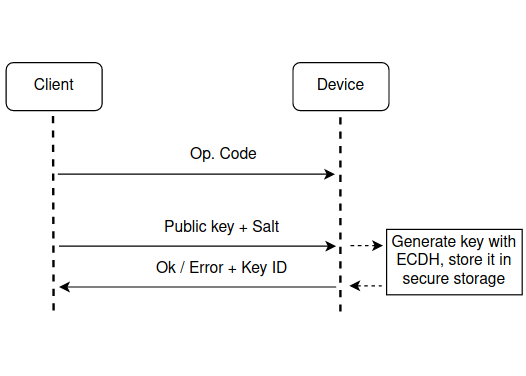
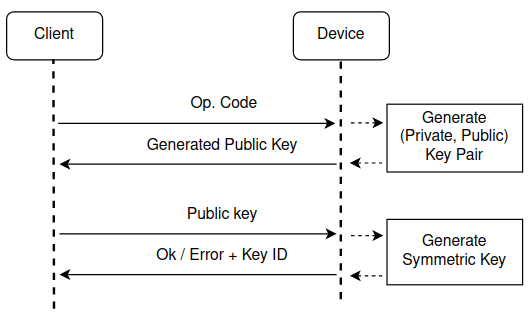
Architecture rewrite

diff --git a/Chapters/Thesis-MSc-Chapter_4.tex b/Chapters/Thesis-MSc-Chapter_4.tex
@@ -9,7 +9,7 @@
 \label{chap:arch}
 
 The fundamental objective of this work is to develop a portable device,  which enables entities to establish secure channels of communication.
-A solution was developed on a portable HSM, which secures communications between users, stores the owner's sensitive data, such as keys and documents, and performs all services critical to its security. This is an easy process for the owner, who does not need to concern himself with any setup or management, the system is accessible and ready to use when received.
+A solution was developed on a portable HSM, which secures communications between users, stores the owner's sensitive data, such as keys, and performs all services critical to its security. This is an easy process for the owner, who does not need to concern himself with any setup or management, the system is accessible and ready to use when received.
 This chapter presents an overview of the developed system, its services, the communications protocol and use cases, unconstrained by a specific physical device.
 
 % -----------------------------------------------------
@@ -21,7 +21,7 @@ The system, pictured in Figure~\ref{fig:overview}, is composed of two main compo
 
 \begin{figure}[h]
     \centering
-    \includegraphics[width=0.7\textwidth]{./Images/overview.png}
+    \includegraphics[width=0.75\textwidth]{./Images/overview2.png}
     \caption{System Overview}
     \label{fig:overview}
 \end{figure}
@@ -31,101 +31,94 @@ The user's computer running the software is connected to the device, through a p
 Using these tools, the user can signal the device to perform the desired services.
 These services are implemented inside the device, which stores and manages keys, as well as other data.
 If the device is misplaced or stolen, the stored keys and documents are not at risk of being extracted. The developed software and physical tamper measures ensure it.
-Upon receiving their device, each user is only required to plugin it into a power socket, and to their computer using the appropriate cable. The system is ready to use, through the provided interface software.
-%% SERIAL PORT COMMUNICATIONS INTRODUCTION %%
-All data and commands will flow through a serial connection, between the interface software in the individual's computer and the physical box. A communication protocol which defines the communication rules is defined in the next section.
-% Data is organized in fields, each field has a fixed number of bytes to hold a specific piece of data.
-% The protocols are organized in transmissions. One transmission is two messages, one message from the computer to the device, and another in the reverse direction.
-% The serial port connection transmits data one block at a time, each block contains a maximum of 16 bytes.
+Upon receiving their device, each user is only required to connect it to their computer using the appropriate cable. The system is ready to use, through the provided interface software.
 
 % -----------------------------------------------------
 % -----------------------------------------------------
-\section{Services Protocols}\label{chap:arch:services}
+\section{Services}\label{chap:arch:services}
 
 %% INTRODUCTION %%
-This section describes the services and their communication protocol, between the computer application and the hardware device. Each service's goal, exchanged information and algorithms are also detailed.
-Firstly it presents the authentication, then main services, divided in their objective, secure data exchange, digital signatures and new communications.
-In the diagrams representing the protocols, consecutive pieces of data flowing in the same direction are separated in distinct messages for visual purposes only. In practice, the data is sent in one message, each in its own field with a defined number of bytes.
-
-% -----------------------------------------------------
-% \subsection{Initial State}\label{chap:arch:services:initial-state}
-
-%% DEVICE STATE FROM FABRIC %%
-The device will come from fabric configured and prepared with the necessary keys to secure communications.
-Before acquiring the device, each entity can provide a list of entities with whom they wish to securely communicate. The device will then be delivered to each entity with the necessary keys. This allows owners to begin to communicate immediately, with no setup necessary.
-Additionally, the device is delivered with the necessary functionality and keys, so all devices can establish secure communications with new entities. This provides the flexibility of secure data exchange with a new entity, without having to send the device back to the distributor, to be loaded with the necessary keys.
+This section describes each system service and all its relevant information. 
+Firstly it presents the authentication, then the secure data exchange service, qualified digital signatures and services to establish new communication endpoints.
 
 % -----------------------------------------------------
 \subsection{Authentication}\label{chap:arch:services:auth}
 
-All users need to be authenticated through a PIN number, in order to access the system operations. This way, each entity with multiple users can organically handle which users are authorized to access the device, by handing out the corresponding PIN number.
-The device is delivered with a default PIN to the owner. It can be changed at any time by an authenticated user.
-To authenticate himself to the device, the user sends the operation code, and PIN through the software, the device then compares it to the authentication number securely stored inside it, and receives an appropriate failure or success status. Once authenticated, the session will be unlocked, and the user gains access to all services.
-The protocol to change the authentication PIN is exactly the same as the login, with the exception that the supplied PIN is the new PIN, which will overwrite the current. The user will receive an error status if it is not logged in.
-% Figure~\ref{fig:protocol:login} depicts the login protocol.
-
-% \begin{figure}[h!]
-%         \centering
-%         \includegraphics[width=0.50\textwidth]{./Images/authentication.png}
-%         \caption{Login and PIN change communication protocol}
-%         \label{fig:protocol:login}
-% \end{figure}
+Each entity will have its own device, which can be connected to a computer. To access the device's services, all users need to be authenticated to the device, through a PIN number. There is only a single PIN number, to authenticate the user's belonging to an entity to their device. This PIN number is securely stored in the device.
+Each entity can supply this number to users which will use the device, in behalf of the entity.
+After the user sends the correct PIN and is authenticated, the PIN can be changed.
 
 % -----------------------------------------------------
 \subsection{Secure Data Exchange}\label{chap:arch:services:data-exchange}
 
-The secure data exchange service is responsible for securing communications between users. It grants confidentiality, integrity and authentication to communications.
-The communication protocol, between the device and computer application, is illustrated in Figure~\ref{fig:protocol:data-exchange}, and consists of two transmissions.
+As previously introduced, the main goal of this solution is to secure communications between multiple entities, with identical devices.
+Herein defined is the secure data exchange service, responsible for securing communications between entities. 
+Communications are secured by providing three services: confidentiality, integrity and authentication. This allows communicating entities to ascertain the origin of messages and prevent unauthorized entities from reading and modifying them.
+To grant these services, communicating entities must agree on a symmetric key. This key will be stored in the devices of both entities, and is never exposed outside to the outside.
+This system provides services to agree on keys, which are discussed further ahead. For the purpose of this section, we will assume a symmetric key has already been agreed between both entities.
+
+As discussed in the previous chapter, and depicted in Figure \ref{fig:overview}, Alice's computer will communicate with her HSM, in order to secure data, to be sent to Bob. For this, there needs to be a communications protocol between the computer and HSM, to define what data is sent, in what order and by who. To secure a piece of data sent by Alice, the device needs to receive the data, and return the data encrypted and authenticated with an internal key, previously agreed by Bob and Alice.
+Thus, the communication protocol, between the device and computer application, is illustrated in Figure~\ref{fig:protocol:data-exchange}.
 \begin{figure}[h!]
 	\centering
 	\includegraphics[width=0.60\textwidth]{./Images/data-exchange.png}
 	\caption{Communication protocol for data ciphering and authentication in the HSM with internal keys}
 	\label{fig:protocol:data-exchange}
 \end{figure}
+Since the system is designed to have multiple services, and be able to store multiple keys, there needs to be a mechanism to identify the different services and keys.
+Services will be identified through a operation code, with a unique value for every service. Similarly, keys will be identified through an ID with a unique value for every key. Alice must know the ID for every key, which is stored in the device along with the corresponding key.
 
-The first transmission is started by the user, by sending the operation code and key ID, which identifies the internal symmetric key used to encrypt and authenticate.
-The device returns a status message. If the key ID was invalid or the user is not authenticated, it is an error.
-In the second transmission, the user application sends the data length, followed by the data to be encrypted and authenticated internally.
-Afterwards, the device starts the encryption process and MAC generation. When finished, the device outputs the result length and result data. If there is a processing error, the result length is 0.
-The protocol for decryption and encryption is identical. The only difference is in the transmitted data. For the encryption service, the device receives the plaintext data and returns a message with the generated MAC, IV and encrypted data. For decryption, the device receives the MAC, IV, ciphertext, and returns the original plaintext.
+Thus, if Alice wants to secure data, the computer must first send a message composed of a 1 byte code, identifying the secure data exchange service, and a 1 byte key ID, to identify the symmetric key which will be used to secure data.
+Upon receiving the message, the device will check internally if the user is authenticated and if both the operation code corresponds with an existing service and if the key with the corresponding ID exists.
+Subsequently the corresponding success or failure status is returned by the device.
 
-The encryption service protocol is pictured in Figure \ref{eq:encrypt-mac}.
-First, the plaintext data is encrypted with symmetric encryption and a randomly generated IV. Next a MAC is generated from the concatenated IV and ciphertext.
-The decryption service is depicted in Figure \ref{eq:decrypt-mac}.
-A new MAC is generated from the received IV and ciphertext. Then the received and computed MACs are compared. If identical, the data is authenticated, and the ciphertext is decrypted with the same internal symmetric key used for encryption and the received IV, to obtain the plaintext.
+After a successful exchange, the data can be sent to the device. Before the data is received, the device must know the size of the data which it will receive from the computer. Thus, 2 bytes containing the data size are sent first.
+After the data is processed in the device, its output is sent back to Alice, which can be securely sent to another entity, with the same symmetric key in their device.
+If Bob wants to obtain the plaintext of the data sent by Alice, the same communication process is used. Bob sends the correct operation code and key ID, receives a success status response, then sends the secured data from Alice, and waits for the plaintext response. 
 
+To produce the secure data, the plaintext must be encrypted and authenticated to provide the three necessary cryptography services: confidentiality, authentication and integrity.
+On the other hand, there must also be a process to authenticate and decrypt the data, in order to retrieve the plaintext. Therefore, a protocol for encryption and encryption with authentication is needed.
+
+As presented in Section \ref{chap:background:crypto}, symmetric encryption schemes provide confidentiality to data, while MAC algorithms provide authentication. AEAD schemes, which authenticate and encrypt messages, such as AES-GCM, may be more efficient and are less likely to be misused, than combining separate encryption and authentication schemes.
+Unfortunately, devices such as the SmartFusion2 SoC, do not provide AEAD schemes. These boards usually provide separate encryption and authentication algorithms.
+Thus, the proposed solution combines an encryption and authentication scheme, in order to provide the necessary cryptography services.
+Both algorithms can be combined in different orders. Studies recommend combining a secure encryption and secure MAC, with the encrypt-then-MAC method~\cite{encryptmacorder}. This method encrypts the plaintext first, then generates the MAC from the generated ciphertext.
+
+From this information, the proposed encryption protocol is pictured in Figure \ref{eq:encrypt-mac}. First, the plaintext data is encrypted with an internal symmetric key and a randomly generated IV. Next, a MAC is generated from the concatenated IV and ciphertext.
+If the IV can be modified by an attacker, the original plaintext cannot be fully recoverable. Therefore, it is important that the MAC is generated from both the ciphertext and IV, this way the receiver can detect if either information was altered.
+The output data is the concatenation of the IV, ciphertext and MAC.
 \begin{equation}
 	\label{eq:encrypt-mac}
 	E_{key}\{Data, IV\}, MAC_{key}\{IV+E_{key}\{Data, IV\}\}
 \end{equation}
+
+The decryption protocol is pictured in Figure \ref{eq:decrypt-mac}. The protocol follows the same process as the previous but in reverse order. A new MAC is generated from the received IV and ciphertext. Then, the computed and received MACs are compared. If identical, the receiver can be sure of the data's origin and integrity. The ciphertext is decrypted with the same internal symmetric key used for encryption and the received IV, to obtain the plaintext.
 
 \begin{equation}
 	\label{eq:decrypt-mac}
 	(MAC_{key}\{IV+Ciphertext\} == MAC) => E_{key}\{Ciphertext, IV\} => Data
 \end{equation}
 
-
 % ----------------------------------
 \subsection{Qualified Digital Signatures}\label{chap:arch:services:signatures}
 
-The system offers qualified digital signatures, which provide non-repudiation to a piece of data, using an internal private key, imported in the device from fabric.
-The communication protocol for signature generation is presented in Figure~\ref{fig:protocol:signature-generate}.
-% The communication protocol for signature generation and verification are presented in figures~\ref{fig:protocol:signature-generate} and \ref{fig:protocol:signature-verify}.
-% \begin{figure}[h!]
-%         \centering     %%% not \center
-%         \subfigure[Generation]{\label{fig:protocol:signature-generate}\includegraphics[width=79mm]{Images/signature-generate.png}}
-%         \subfigure[Verification]{\label{fig:protocol:signature-verify}\includegraphics[width=79mm]{Images/signature-verify.png}}
-%         \caption{Communication protocol for generating digital signatures and verifying the signatures using the internal HSM asymmetric key pair}
-% \end{figure}
+Digital signatures provide non-repudiation to a piece of data. This prevents an entity from denying the authorship of message. Qualified signatures are a special type of signatures where the private keys, which generated them, are stored inside a device, such as a HSM, and are never exposed to the outside.
+Therefore, the signature must be generated inside the HSM. The device should support an algorithm for the generation of signature, such as ECDSA.
+The device will store a unique private key, which will identify the entity. This key is randomly generated in the device and subsequently stored. Afterwards, the system is delivered to entities, with the already generated key.
+
+As with the previous service, a communications protocol between the user and device must be defined. The device must receive the data, from which it will generate the signature, while the user will receive the generated signature.
+The devised communication protocol is presented in Figure~\ref{fig:protocol:signature-generate}.
 \begin{figure}[h!]
 	\centering
 	\includegraphics[width=0.55\textwidth]{./Images/signature-generate.png}
 	\caption{Communication protocol for generating digital signatures using internal HSM asymmetric key pair}
 	\label{fig:protocol:signature-generate}
 \end{figure}
-The user application sends the operation code, data length and data to be signed.
-The qualified digital signature will be generated using the internal private key and data. Afterwards the device responds with the signature length and generated signature.
-The device generates the signature with the device's private ECC key, an implementation of the \ac{ECDSA} algorithm and the SHA-256 hash function according to the equation \ref{eq:signature-generate}.
+In order to identify the service, the user will send the corresponding operation code, along with the data to be signed.
+Upon reception of the data, the device checks if the user is authenticated and subsequently generates the qualified signature, using its internal private key.
+Afterwards, the device responds with the generated signature.
+
+As discussed previously, public key cryptography is slow. Therefore, a digital signature is generated by first computing a hash of the message, then signing the hash with the private key, as shown in Figure \ref{eq:signature-generate}. In general, generating a signature from a hash is faster, since it has small fixed size, while the data can be of any size.
 
 \begin{equation}
 	\label{eq:signature-generate}
@@ -144,22 +137,13 @@ The device generates the signature with the device's private ECC key, an impleme
 % -----------------------------------------------------
 \subsection{Establishing New Communication Endpoints}\label{chap:arch:services:new-comms}
 
-As introduced before, the device provides the flexibility to establish communications with other entities, even new ones, not previously requested by the user.
-The device can also import a new set of keys, provided by the control station.
-This way, already established channels of communication can be updated on a regular time schedule.
-When a user wants to communicate with a new entity, the system provides two convenient solutions.
-Both options allow establishing connections with new entities when needed, by way of a trusted third party: a control station. 
-The user can securely contact the control station at any time to request the public key of the other entity, through the secure data exchange service, equivalent to communicating with any other entity. The control station effectively acts as a PKI.
-Then, the user sends the information through the computer application to the device. The new key is generated in the device and made available right away. Then data can be exchanged with the new entity, which must also request the control station for the analogous entity's public key.
-
-The system can also be setup with a regular communication update schedule. It grants the flexibility of key revocation when needed, data exchange with new entities, as well as updating symmetric keys, with no additional complexity to the user, to always safeguard the security of communications.
-Each month an entity can hand over a list of the entities it wishes to communicate with to the control station, which will accordingly yield the corresponding key set.
-Each entity only needs to forward the list to the device, and the new keys are immediately stored and ready to be used.
-Users can resume communications, the same way as before with minimal interruption, with the requested entities.
-The protocols for both services are detailed next: symmetric key generation and importation of keys.
+The system provides the flexibility to establish secure communications with new entities, with identical devices.
+To achieve this, entities must agree on a new symmetric key, which can be subsequently used with the secure data exchange service, presented in Section \ref{chap:arch:services:data-exchange}, to secure communications between them.
+All new keys are stored in the device's secure storage, along with its unique ID.
+Two different mechanisms to generate and agree on new symmetric keys are presented next. The first uses public key cryptography and the second uses symmetric key cryptography.
 
 % -----------------------------------------------------
-\subsubsection*{Key Generation}\label{chap:arch:services:new-comms:ecdh}
+\subsubsection{Key Generation}\label{chap:arch:services:new-comms:ecdh}
 
 The protocol to generate a shared symmetric key with another entity, using asymmetric cryptography is detailed in Figure~\ref{fig:protocol:ecdh}.
 \begin{figure}[h!]
@@ -183,7 +167,7 @@ A new unique ID is generated for the key, which is stored in the device, alongsi
 The salt value is used, in order to generate several symmetric keys from the same asymmetric key pairs.
 
 % -----------------------------------------------------
-\subsubsection*{Import Keys}\label{chap:arch:services:new-comms:import}
+\subsubsection{Import Keys}\label{chap:arch:services:new-comms:import}
 
 This section details the protocol to import a list of encrypted symmetric keys into the device.
 The imported keys must be encrypted with a preset symmetric key, stored inside the device from fabric, using the secure data exchange service. Thus, a central management section with a similar device can distribute keys to the enrolled entities, on a regular schedule.
@@ -201,19 +185,20 @@ Each key data section consists of 1 byte for its ID, 1 byte for its size and rem
 The decrypted list of keys is encrypted again, with a dedicated symmetric key for memory storage. 
 
 The ciphertext and randomly generated IV are stored in memory. Both are authenticated by generating a MAC and storing it in secure storage.
-In order to fetch a stored key, a MAC is generated from the ciphertex and IV in memory, and compared to the MAC in secure storage. If identical, the keys can be decrypted and a specific key identified through its ID.
-% To provide authentication and thus protection against tampering, a MAC is generated from the three pieces of data and stored in secure storage, separate from the keys and IV.
+In order to fetch a stored key, a MAC is generated from the ciphertext and IV in memory, and compared to the MAC in secure storage. If identical, the keys can be decrypted and a specific key identified through its ID.
 
-% When a symmetric key is revocated, due to reaching its expiration date, or from being compromised, entities can generate a new one, using the aforementioned procedure, with an additional parameter for the key derivation function, to generate a completely new and unique key.
-% Import
-% Generate
+% The device can also import a new set of keys, provided by the control station.
+% This way, already established channels of communication can be updated on a regular time schedule.
+% When a user wants to communicate with a new entity, the system provides two convenient solutions.
+% Both options allow establishing connections with new entities when needed, by way of a trusted third party: a control station.
+% The user can securely contact the control station at any time to request the public key of the other entity, through the secure data exchange service, equivalent to communicating with any other entity. The control station effectively acts as a PKI.
+% Then, the user sends the information through the computer application to the device. The new key is generated in the device and made available right away. Then data can be exchanged with the new entity, which must also request the control station for the analogous entity's public key.
 
-% Supported management operations include generation of new symmetric keys for communication and revocation of existing keys saved in the device, if communications are suspected to be compromised.
-% These operations are only available in the scenario where each device has a pair of asymmetric keys, and there is a protocol in place to distribute public keys.
-
-% An entity receives their device, prepared to communicate with other entities, and a list of information of other entities, available to create communications. This information, namely the entities public key, can be imported into the device to generate new keys.
-% After the key is imported, a secure connection with a new entity can be established, by sharing symmetric keys.
-% In order for an entity to communicate with a another entity, with no previously established communications, their device will generate a new symmetric key and store it in secure storage, or in non-volatile memory, encrypted with the device's public key.
+% The system can also be setup with a regular communication update schedule. It grants the flexibility of key revocation when needed, data exchange with new entities, as well as updating symmetric keys, with no additional complexity to the user, to always safeguard the security of communications.
+% Each month an entity can hand over a list of the entities it wishes to communicate with to the control station, which will accordingly yield the corresponding key set.
+% Each entity only needs to forward the list to the device, and the new keys are immediately stored and ready to be used.
+% Users can resume communications, the same way as before with minimal interruption, with the requested entities.
+% The protocols for both services are detailed next: symmetric key generation and importation of keys.
 
 % -----------------------------------------------------
 \section{Summary}\label{chap:arch:summary}

diff --git a/Chapters/Thesis-MSc-Chapter_2.tex b/Chapters/Thesis-MSc-Chapter_2.tex
@@ -216,18 +216,22 @@ Despite this, FPGAs are a good option due to less time-to-market and lower cost.
 
 The SmartFusion2 \ac{SoC} integrates a non-volatile \ac{FPGA} with a \ac{SoC} and an internal \ac{NVM} of 512 KB, for storing boot code.
 It has a \ac{SRAM} with 64 KB protected against \ac{SEU} or 80 KB unprotected. The board has an embedded ARM Cortex-M3 processor and a \ac{TRNG}, which provides a quality source of entropy, a critical part of most cryptographic algorithms. It supports multiple cryptographic functions: \ac{AES}, \ac{SHA}-256, \ac{HMAC} and \ac{ECC}, among others.
+
 The \ac{AES} system service supports encryption with 128 bit and 256 bit keys, with the following modes: ECB, CBC, OFB and CTR.
 It provides a \ac{SHA}-256 hashing service, and a \ac{HMAC} service using the same hashing function.
 The KeyTree service provides access to a SHA-256 based key-tree cryptography algorithm. Notably, it can be used to generate a message authentication code from a hash input and key, as a key derivation function with a key and salt as input or in challenge-response protocols.
 The \ac{TRNG} service provides a raw entropy source based upon a noisy ring oscillator, measured against a system clock.
+
 The device includes several relevant \ac{ECC} accelerators, with the \ac{NIST} defined P-384 elliptic curve.
 It can generate public keys from the corresponding private key, using its scalar point multiplication service, by multiplying the scalar (private key) with the curve's base point. This service also allows the generation of a shared secret with \ac{ECDH}, by multiplying the device's private key, with another user's public key.
 The device also includes a point addition service, which allows the implementation of the \ac{ECDSA} algorithm for generating digital signatures.
+
 The board provides a SRAM-PUF service to store user supplied or randomly generated keys.  It holds up to 56 key slots with a maximum of 4096 bits each.
 It uses the random start-up behaviour of a 2KB \ac{SRAM} block to determine a static secret, unique to each device. There is enough repeatability in the SRAM turn-on behaviour to reconstruct the same secret each time. This secret is used to derive cryptographic keys with 256 bit security strength.
 When power is removed, the secret disappears. At present, there is no technology able to detect the start-up behaviour of an SRAM \cite{smartfusionSecurityPractices}. It is determined by atomic-scale manufacturing differences in SRAM transistors.
 Each enrolled key generates a key code, required along with the secret to generate the specific key.
 The key codes are protected by \ac{AES} encryption and stored in a private section of the eNVM.
+
 The eNVM is a tamper-resistant nonvolatile memory. It has a size of 512KB, with the top 64 pages reserved for keys and passcodes, inaccessible by the user.
 It has a limited number of write cycles. For a predicted life span of 20 years, there is a limit of 1000 writes per page of 128 bytes \cite{smartfusionDatasheet}. For a smaller life span of 10 years, it has a limit of 10000 cycles per page.
 
